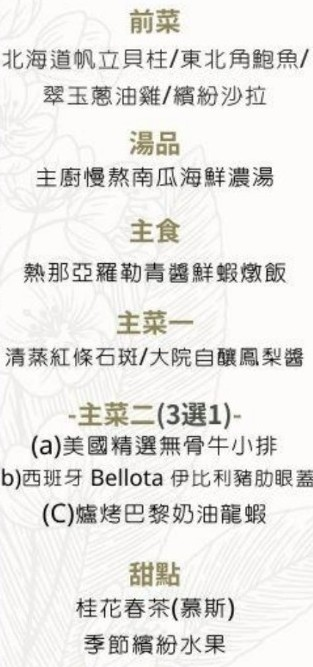
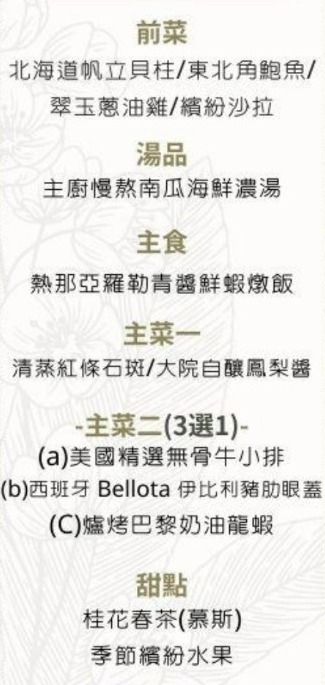
Add files via upload

Changed region(s): [[0.0, 0.5997, 1.0, 0.9895], [0.0, 0.0, 1.0, 0.2999], [0.0, 0.3298, 0.9776, 0.5697]]

diff --git a/index.html b/index.html
@@ -35,12 +35,6 @@
   </button>
 
   <main>
-    <section class="card reveal music-card" id="music-card" hidden>
-      <h2>🎵 我們的歌</h2>
-      <p class="hint">Love Like You — Steven Universe</p>
-      <div class="music-frame"><div id="music-player"></div></div>
-    </section>
-
     <section class="card reveal" id="info">
       <h2>🌿 婚宴資訊</h2>
       <dl class="facts">
@@ -158,6 +152,13 @@
       <div id="done-edit" hidden>
         <p>之後想修改回覆，請用這個專屬連結（建議先收藏或傳給自己）：</p>
         <div class="linkbox"><input id="done-link" readonly><button type="button" class="btn btn-small" id="copy-btn">複製</button></div>
+      </div>
+    </section>
+    <section class="card reveal music-card" id="music-card" hidden>
+      <div class="music-frame"><div id="music-player"></div></div>
+      <div class="music-text">
+        <h2>🎵 我們的歌</h2>
+        <p class="hint">Love Like You<br>Steven Universe</p>
       </div>
     </section>
   </main>

diff --git a/assets/style.css b/assets/style.css
@@ -144,9 +144,13 @@ summary { cursor: pointer; color: var(--green); min-height: 36px; }
 .linkbox input { font-size: 14px; }
 
 /* 音樂 */
-.music-frame { border-radius: 12px; overflow: hidden; aspect-ratio: 16 / 9; background: #000; }
-.music-frame iframe { width: 100%; height: 100%; border: 0; display: block; }
-.music-card .hint { margin: -6px 0 10px; }
+/* YouTube 規定播放器須可見且至少 200×200 */
+.music-card { display: flex; flex-wrap: wrap; align-items: center; justify-content: center; gap: 12px 16px; }
+.music-frame { flex: none; width: 200px; height: 200px; border-radius: 12px; overflow: hidden; background: #000; }
+.music-frame iframe { width: 200px; height: 200px; border: 0; display: block; }
+.music-text { flex: 1; min-width: 90px; text-align: center; }
+.music-text h2 { margin: 0 0 4px; }
+.music-text .hint { margin: 0; }
 .music-btn {
   position: fixed; top: 12px; right: 12px; z-index: 10;
   width: 48px; height: 48px; border-radius: 50%; border: 1px solid var(--line);

diff --git a/assets/music.js b/assets/music.js
@@ -42,7 +42,7 @@
 
   window.onYouTubeIframeAPIReady = function () {
     player = new YT.Player('music-player', {
-      videoId: id,
+      videoId: id, width: 200, height: 200,
       playerVars: { playsinline: 1, rel: 0, loop: 1, playlist: id },
       events: {
         onReady: function () { ready = true; console.log('[RSVP music] ready id=%s', id); if (wantPlay) player.playVideo(); },
